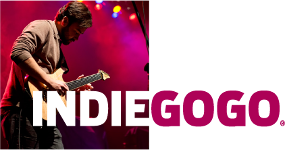
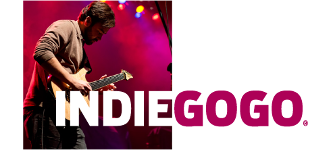
Design updates and image size changes

diff --git a/js/controllers/site/index.js b/js/controllers/site/index.js
@@ -13,7 +13,7 @@ function uncheckPlatforms(id){
   }
 }
 
-
+// set everything for preview
 function previewForm(){
   var cat = plat = '';
   
@@ -36,5 +36,5 @@ function previewForm(){
 
 $(function() {
    if ($('.intro').height() + $('.intro-desc').height() < $("html").height()) $('.intro').height($("html").height()-$('.intro-desc').height()-50);
-   $('#preview').show();
+   //$('#preview').show();
 });

diff --git a/css/layout.css b/css/layout.css
@@ -59,4 +59,18 @@
 .social img{
   margin-left: 10px;
   margin-right: 10px;
+  opacity: 1;
+}
+
+.social img:hover{
+  opacity: 0.85;
+}
+
+// switch hover
+div.switch label{
+transition: background-color 300ms ease-out;
+}
+
+div.switch label:hover{
+  background-color: #007095;
 }

diff --git a/css/override.css b/css/override.css
@@ -12,6 +12,9 @@ li .switch , li .switch label{
   margin-bottom: 0px;
 }
 
+.mt0{
+  margin-top: 0px;
+}
 
 .mb0{
   margin-bottom: 0px;
@@ -23,6 +26,10 @@ li .switch , li .switch label{
 
 .mb30{
   margin-bottom: 30px;
+}
+
+.mb20{
+  margin-bottom: 20px;
 }
 
 .pb30{

diff --git a/protected/views/site/index.php b/protected/views/site/index.php
@@ -42,15 +42,15 @@ $this->pageDesc = "Follow projects from Kickstarter, Indiegogo and others in one
           <p>Which platforms do you wish to follow?<p>
             
             
-          <ul class="small-block-grid-1 medium-block-grid-2 large-block-grid-3">
+          <ul class="small-block-grid-1 medium-block-grid-2 large-block-grid-4">
               <?php
               $i = 0;
               foreach ($platforms as $plat){
                 $i++;
                 
                 ?>
-                <li class="text-center" trk="switch_platform_<?php echo $plat['name']; ?>">
-                    <div class="mb30">
+                <li class="text-center mb30" trk="switch_platform_<?php echo $plat['name']; ?>">
+                    <div class="mb20">
                       <label for="plat_<?php echo $plat['id']; ?>" >
                         <?php if (file_exists("images/platforms/".strtolower(str_replace(" ", "", $plat['name'])).".png")){ ?>
                         <img src="images/platforms/<?php echo strtolower(str_replace(" ", "", $plat['name'])); ?>.png" data-tooltip data-options="disable_for_touch:true" class="tip-right radius" title="<?php echo $plat['name']; ?>">
@@ -73,7 +73,7 @@ $this->pageDesc = "Follow projects from Kickstarter, Indiegogo and others in one
           </ul>
           
           
-          <hr>
+          <hr class="mt0">
           
           
           <h2>2. Choose categories</h2>
